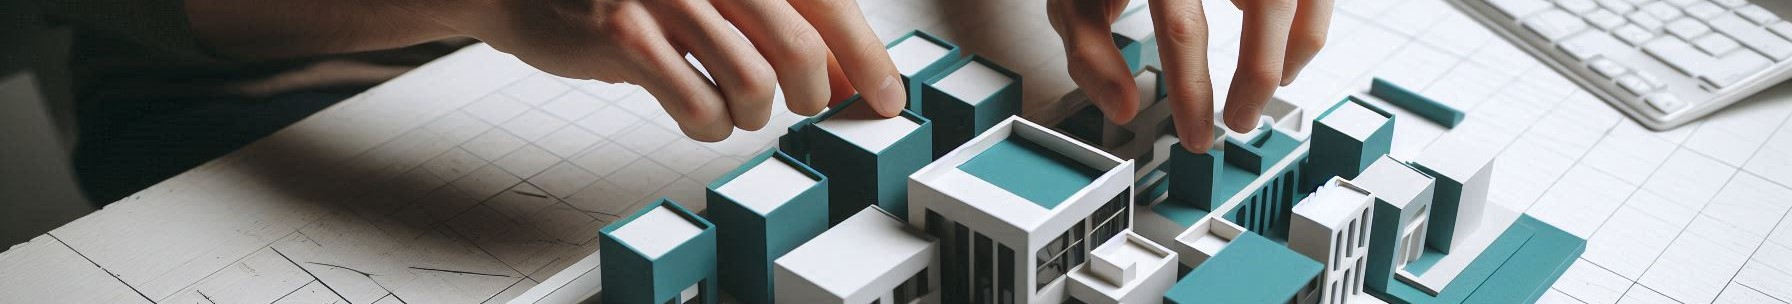
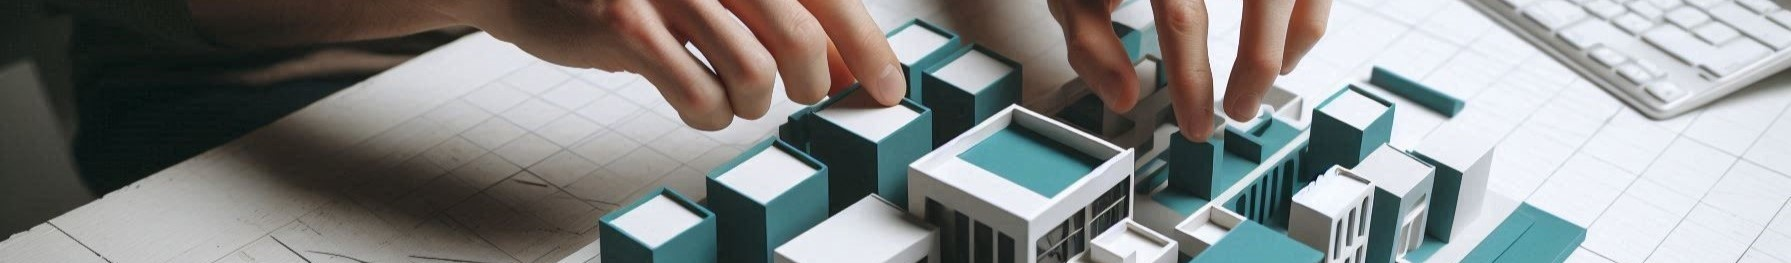
Optimized contacts page images

diff --git a/src/pages/[lang]/contacts.tsx b/src/pages/[lang]/contacts.tsx
@@ -20,19 +20,32 @@ export default function Contacts() {
 
   return (
     <main className={css.container} ref={contactsPageRef}>
-      {isLargeScreen ? (
-        <img
-          src="/contacts/building-model.jpeg"
-          className={cx(css.illustration, isObserved && css.animated)}
-          alt={illustrationAlt}
+      <picture>
+        <source
+          media="(max-width: 400px)"
+          srcSet="
+            /contacts/building_model_400.webp 400w, 
+            /contacts/building_model_400.jpeg 400w"
         />
-      ) : (
-        <img
-          src="/contacts/building-model-mobile.jpeg"
-          className={cx(css.illustration, isObserved && css.animated)}
-          alt={illustrationAlt}
+        <source
+          media="(max-width: 1024px)"
+          srcSet="
+            /contacts/building_model_1106.webp 1106w, 
+            /contacts/building_model_1106.jpeg 1106w"
         />
-      )}
+        <source
+          media="(min-width: 1024px)"
+          srcSet="
+            /contacts/building_model_1792.webp 1792w, 
+            /contacts/building_model_1792.jpeg 1792w"
+        />
+
+        <img
+          src="/contacts/building_model_1792.jpeg"
+          alt={illustrationAlt}
+          className={cx(css.illustration, isObserved && css.animated)}
+        />
+      </picture>
 
       <h1>
         <span aria-hidden="true">|</span>

diff --git a/src/texts/text-contact-info.tsx b/src/texts/text-contact-info.tsx
@@ -75,7 +75,7 @@ const en = {
       {
         name: 'Instagram',
         link: 'https://www.instagram.com/3d_scien3_ua?igsh=dDQ1OWxia29jaXpu',
-        icon: 'icons/instagram_icon.svg',
+        icon: '/icons/instagram_icon.svg',
         alt: 'instagram icon',
       },
     ],
